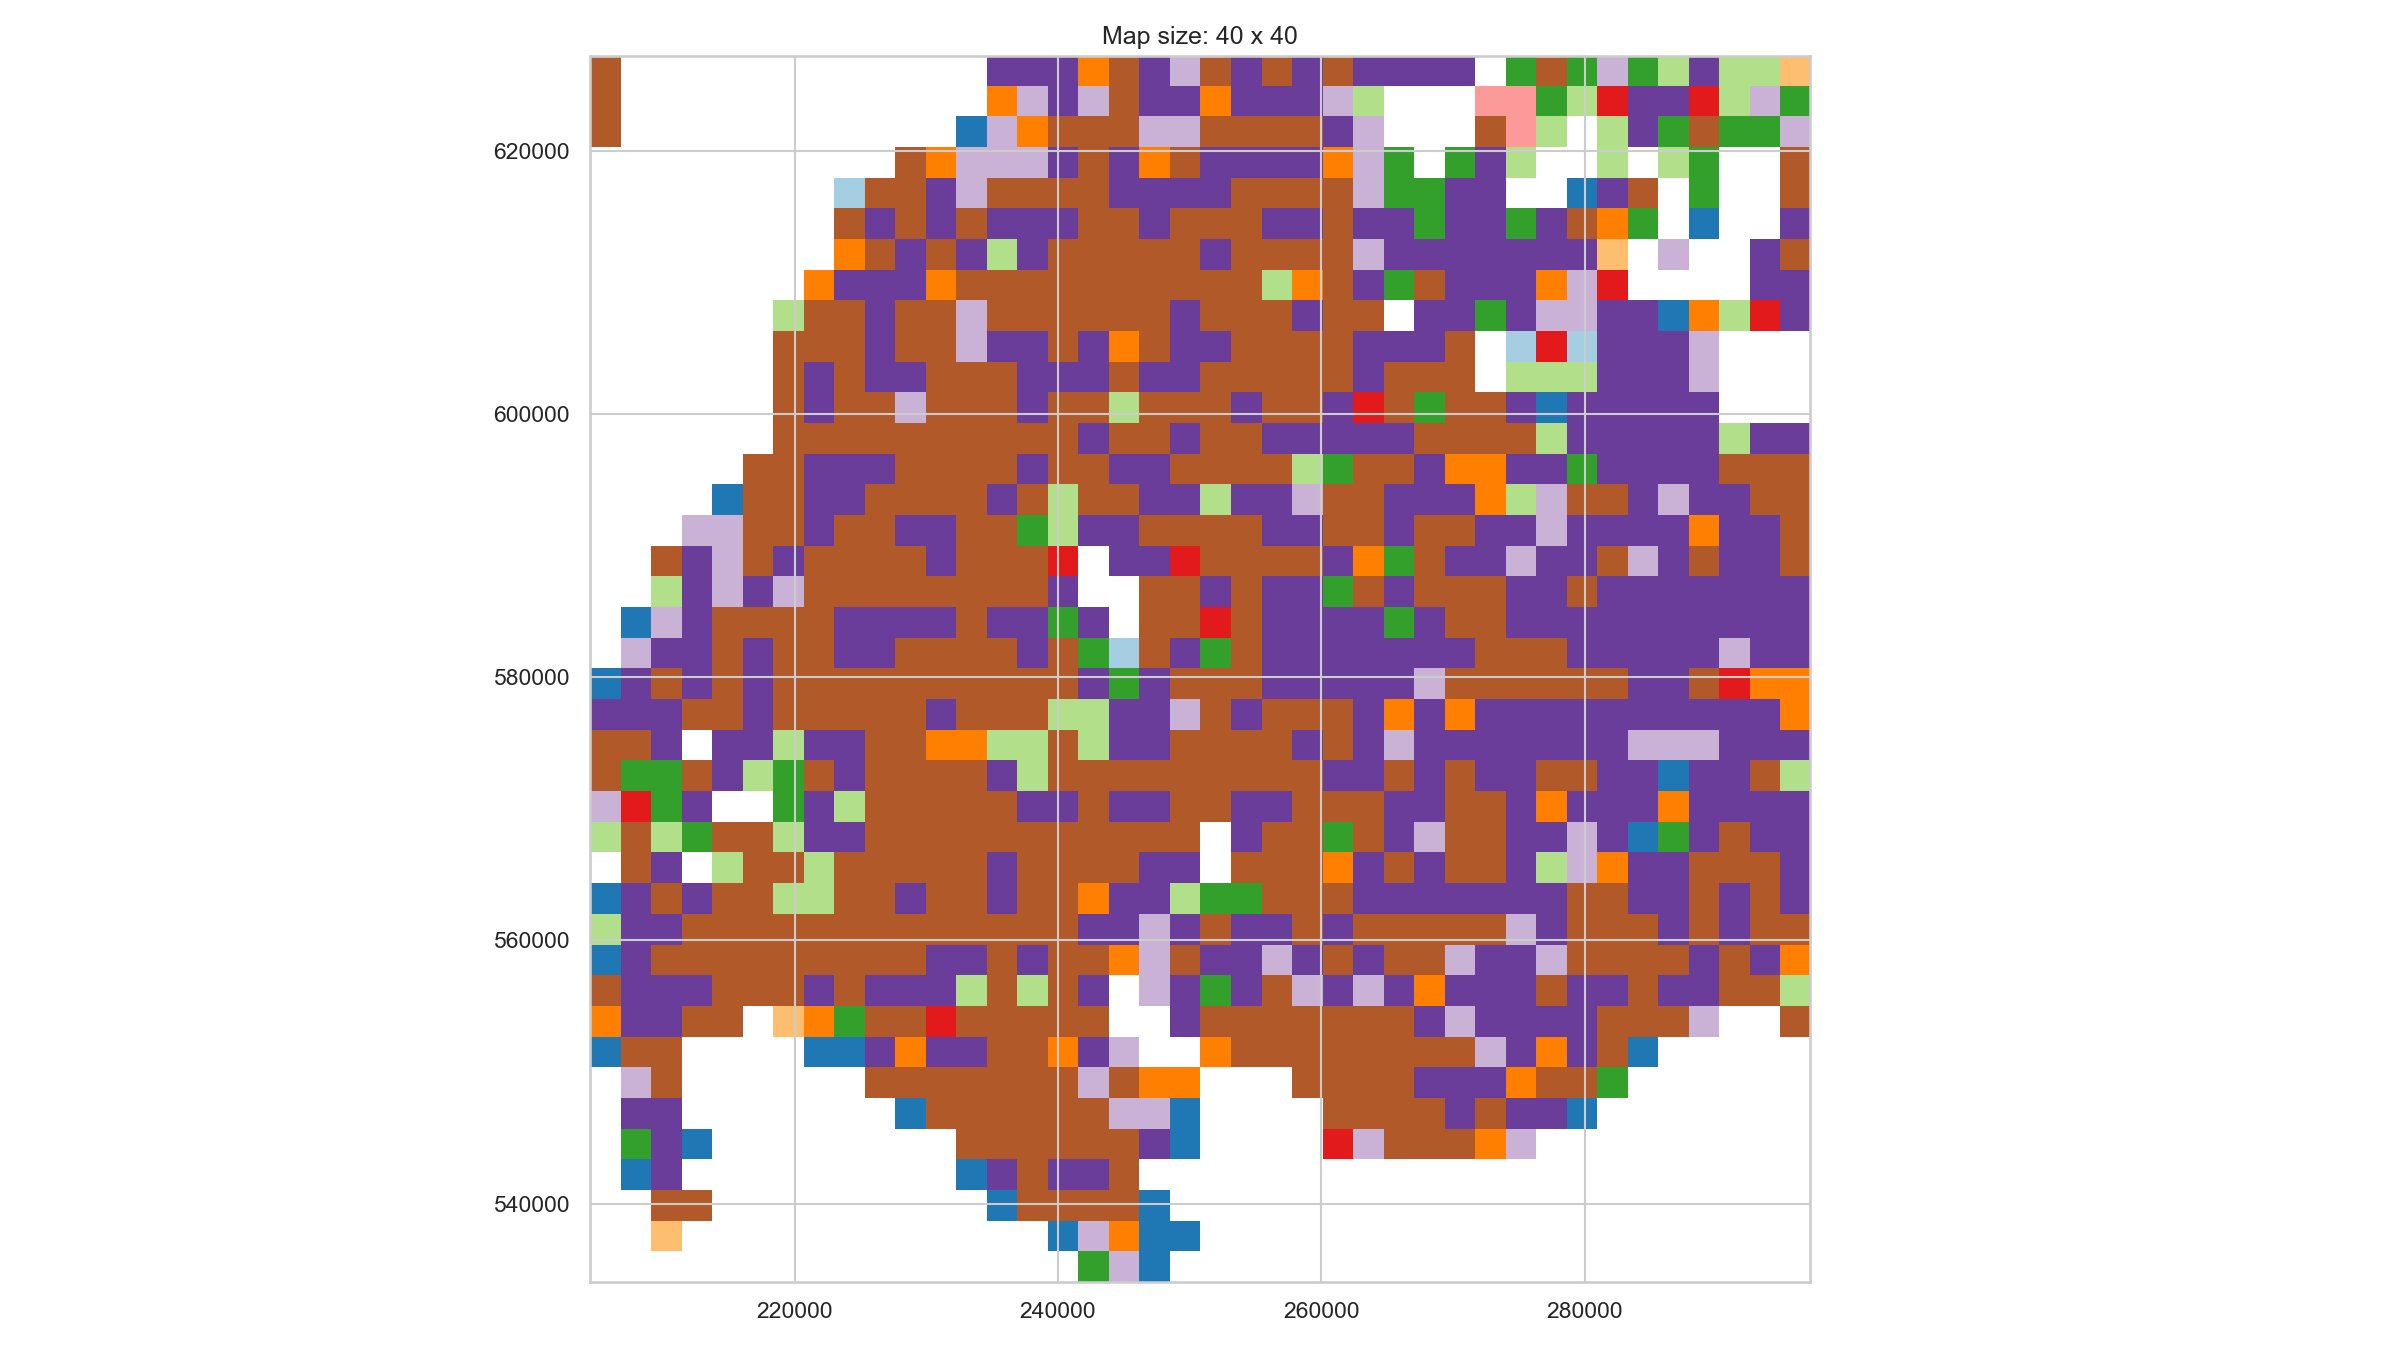
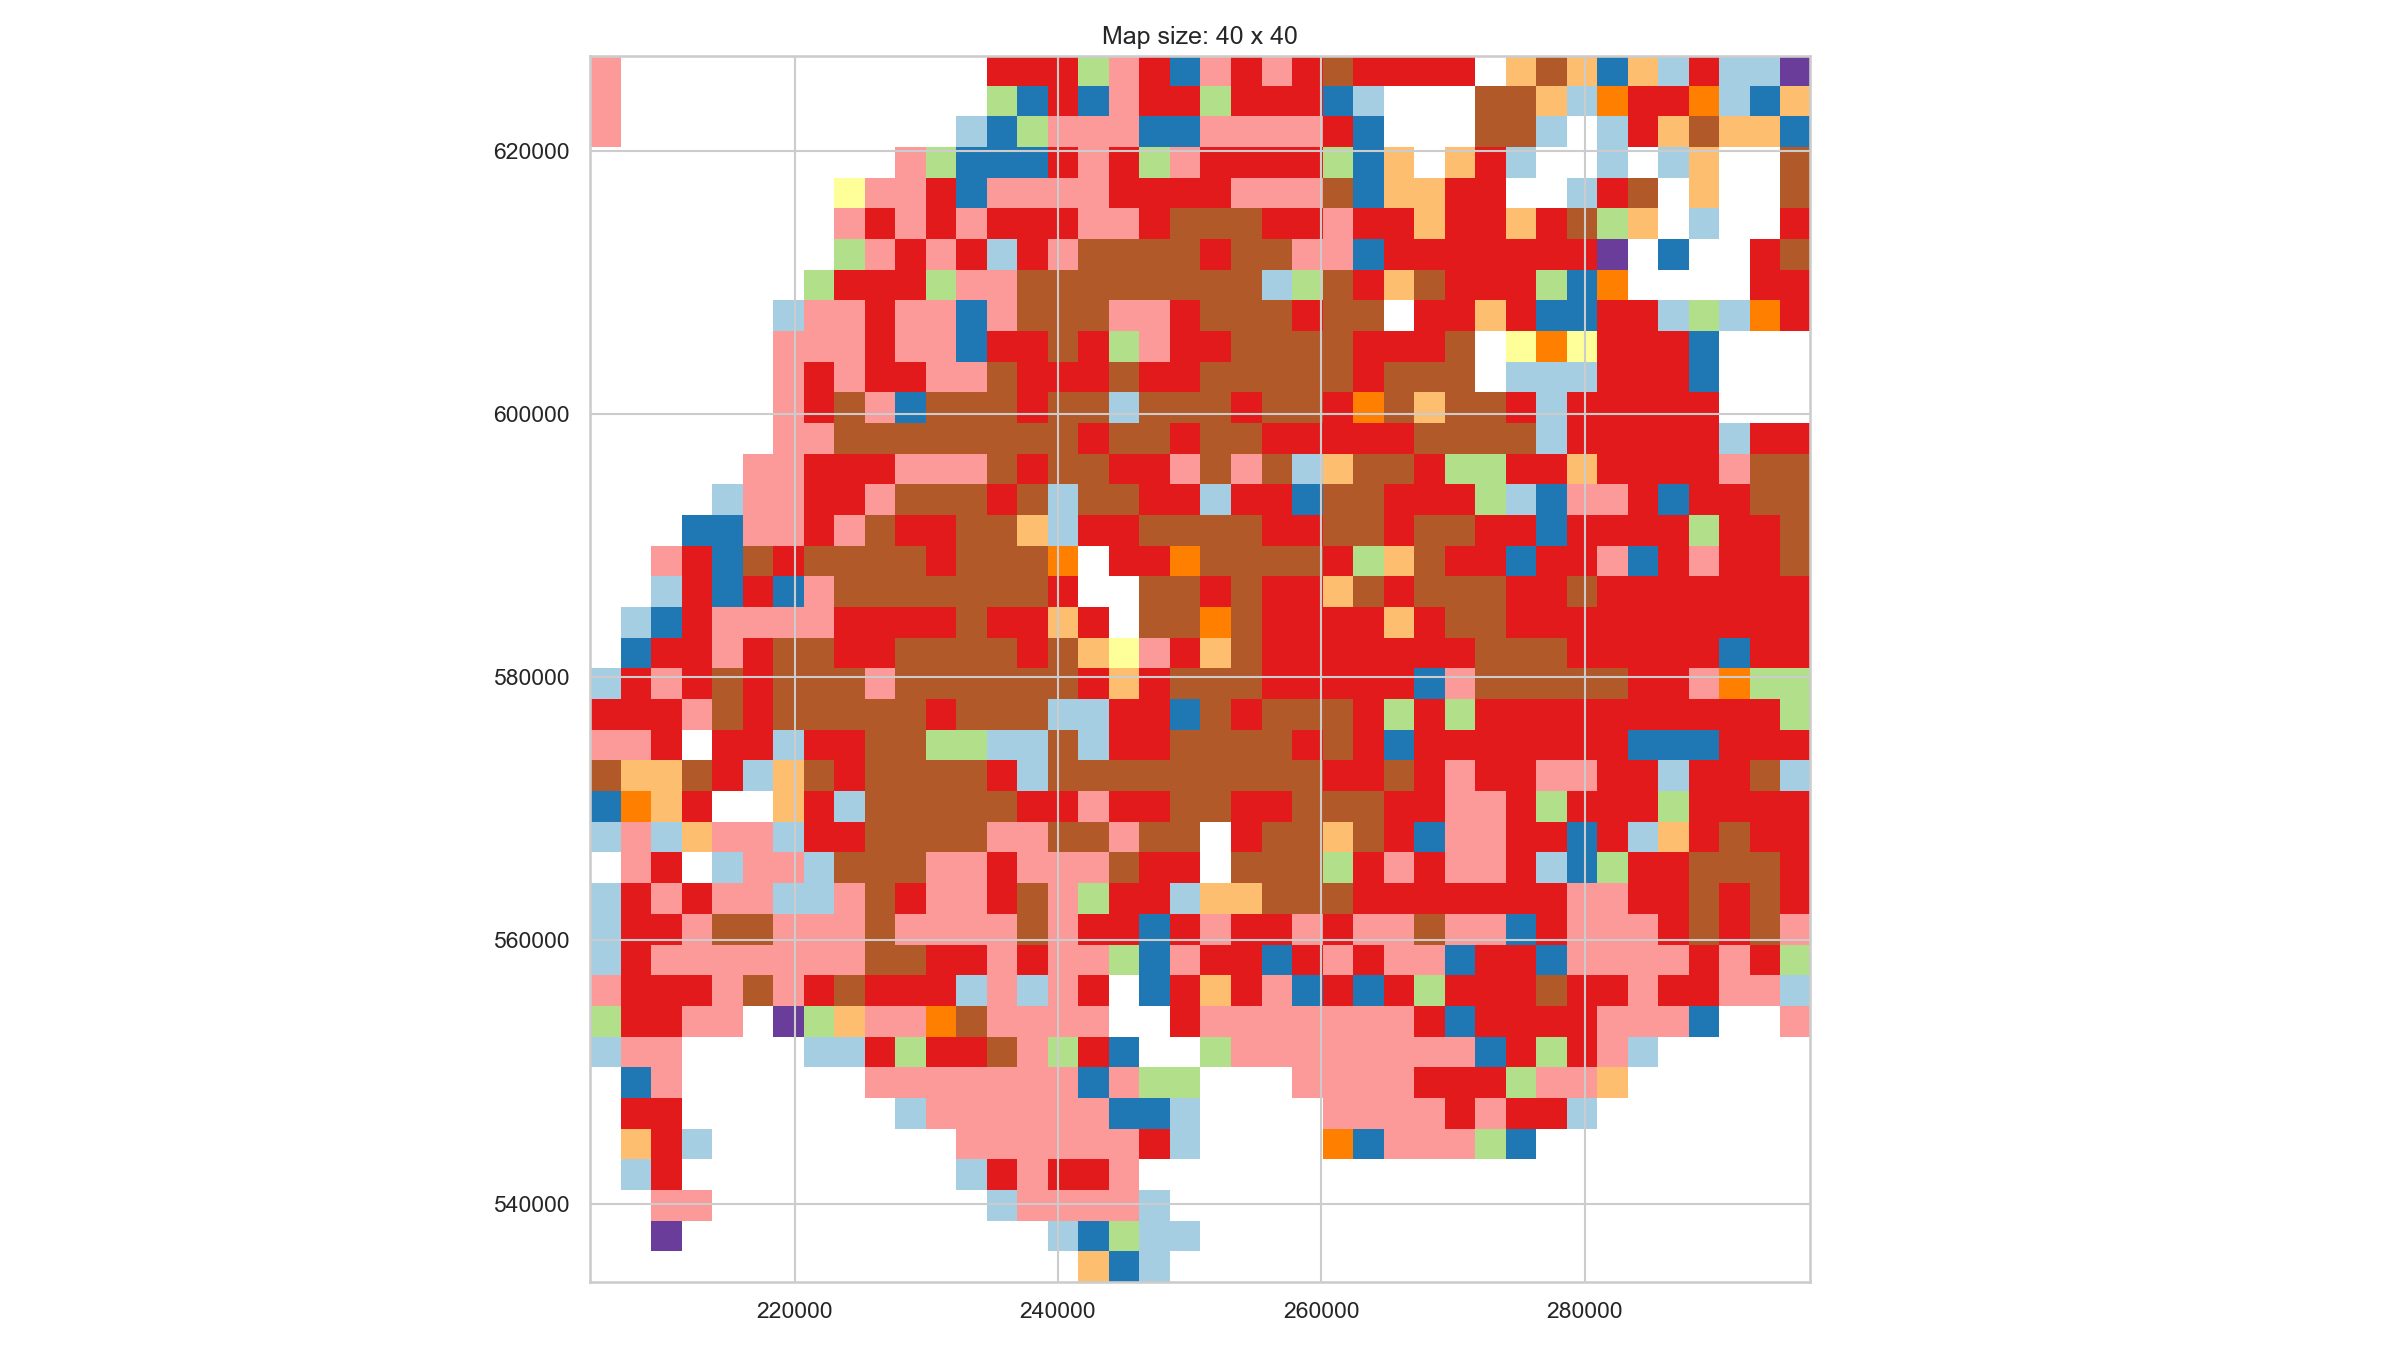
field barplot now matches field colors. implemented dictionaries and methods for field simplification

Changed region(s): [[0.2188, 0.0311, 0.7812, 0.9644], [0.2188, 0.0311, 0.2812, 0.1244]]

diff --git a/src/gecm/field.py b/src/gecm/field.py
@@ -2,8 +2,13 @@ import os
 import numpy as np
 import rasterio as rio
 from rasterio.plot import show
+import matplotlib as mpl
 import matplotlib.pyplot as plt
 from src.gecm.dicts import int2class
+
+
+def cmap2hex(cm):
+    return [mpl.colors.rgb2hex(cm(i)[:3]) for i in range(cm.N)]
 
 
 class Map(object):
@@ -11,12 +16,21 @@ class Map(object):
     Implements playing field class.
     """
 
-    def __init__(self, fpath, mapping):
+    def __init__(self, fpath, mapping_detailed, mapping_simplifyer, cmap="Paired"):
         self.fpath = fpath
         self.src = rio.open(self.fpath)
         self.rows = self.src.width
         self.cols = self.src.height
-        self.mapping = mapping
+        self.mapping_detailed = mapping_detailed
+        self.mapping_simplifyer = mapping_simplifyer
+        self.cmap_str = cmap
+
+        # to be set later
+        self.field_detailed = None
+        self.field_simplified = None
+        self.n_colors = None
+        self.cmap = None
+        self.cmap_hex = None
 
     def read(self, masked=True):
         """
@@ -32,7 +46,15 @@ class Map(object):
         np.ma
             Parsed LULC map
         """
-        return self.src.read(1, masked=masked)
+        field_array = self.src.read(1, masked=masked)
+
+        # update
+        self.field_detailed = field_array
+        self.n_colors = len(np.unique(self.field_detailed)) - 1  # -1 for np.nan
+        self.cmap = plt.get_cmap(self.cmap_str, lut=self.n_colors)
+        self.cmap_hex = cmap2hex(self.cmap)
+
+        return field_array
 
     def convert(self):
         """
@@ -43,7 +65,10 @@ class Map(object):
         np.ma
             Masked array of LULC strings
         """
-        return int2class(self.read())
+        return int2class(self.field_detailed, mapping=self.mapping_detailed)
+
+    def simplify(self):
+        return
 
     def show(self):
         """
@@ -54,16 +79,15 @@ class Map(object):
         ax :
             matplotlib ax object
         """
-        # read
-        raster = self.read()
-
-        # plot
         fig, ax = plt.subplots()
         ax.set_xlabel("x")
         ax.set_ylabel("y")
         ax.set_title("Map size: {} x {}".format(self.rows, self.cols))
 
-        show(raster, ax=ax, transform=self.src.transform, cmap="Paired")
+        show(
+            self.field_detailed, ax=ax, transform=self.src.transform,
+            cmap=self.cmap
+        )
         plt.tight_layout()
         return ax
 
@@ -81,13 +105,14 @@ class Map(object):
 
         # get unique value counts
         unique, counts = np.unique(raster, return_counts=True)
-
+        print(unique)
         # bar width as percent of total pixels ~ areal percentage
         bar_width = counts[:-1] / (self.rows * self.cols)
 
         # create barplot
         fig, ax = plt.subplots()
-        ax.barh(y=int2class(unique[:-1]), width=bar_width)
+        classes = int2class(int_array=unique[:-1], mapping=self.mapping_detailed)
+        ax.barh(y=classes, width=bar_width, color=self.cmap_hex)
         ax.set_xlabel("Percent of total area (%)")
         plt.tight_layout()
         return ax
@@ -103,11 +128,18 @@ if __name__ == "__main__":
 
     # load map
     fpath_map = os.path.join(data_processed, "NFI_rasterized_40_40.tif")
-    field = Map(fpath=fpath_map, mapping=nfi_mapping)
+    field = Map(
+        fpath=fpath_map,
+        mapping_detailed=nfi_mapping,
+        mapping_simplifyer=nfi_mapping_v2
+    )
 
-    # create plot
+    # simplify
+    field.read()
+    print(field.field_detailed)
+    print(field.simplify())
+
+    # plot
     field.show()
     field.show_barh()
-
-    # show plots
     plt.show()

diff --git a/src/gecm/dicts.py b/src/gecm/dicts.py
@@ -11,8 +11,9 @@ from copy import deepcopy
 # but the number 2 precludes them to
 # differentiate them from woodland categories
 # ---------------------------------------------
-# TODO [low]: copy this dict into a new excel file to be parsed when needed
+# TODO 1 [low]: copy this dict into a new excel file to be parsed when needed
 #  (also include long category descriptors!)
+# TODO 2 [low]: add np.nan to mapping as "outside of biosphere" or so
 nfi_mapping = {
     "Conifer": 1,                   # start of woodland categories
     "Broadleaved": 2,
@@ -39,15 +40,25 @@ nfi_mapping = {
     "Other vegetation": 211
 }
 
-# TODO: shrub (7) in "Livestock Farming" OK?
+# TODO 3: shrub (7) in "Livestock Farming" OK?
 nfi_mapping_v2 = {
-    "Livestock Farming": [7, 13, 22, 23, 211],
-    "Native Forest": [2, 4, 6, 9],
-    "Commercial Forest": [1, 3, 8, 14, 15, 16],
-    "Water": [21, 26],
-    "Urban": [24, 25],
-    "Other": [28, 29, 210]
+    1: [7, 13, 22, 23, 211],
+    2: [2, 4, 6, 9],
+    3: [1, 3, 8, 14, 15, 16],
+    4: [21, 26],
+    5: [24, 25],
+    6: [28, 29, 210]
 }
+
+id_mapping = {
+    "Livestock Farming": 1,
+    "Native Forest": 2,
+    "Commercial Forest": 3,
+    "Water": 4,
+    "Urban": 5,
+    "Other": 6
+}
+
 
 def invert_dict(d):
     """
@@ -99,3 +110,9 @@ def int2class(int_array, mapping=nfi_mapping, max_string_length=40):
     else:
         # currently does not work for np.ma
         return np.array([inverse_nfi_mapping[i] for i in int_array])
+
+if __name__ == "__main__":
+    print(invert_dict(nfi_mapping))
+    print(invert_dict(id_mapping))
+
+    print(nfi_mapping)
